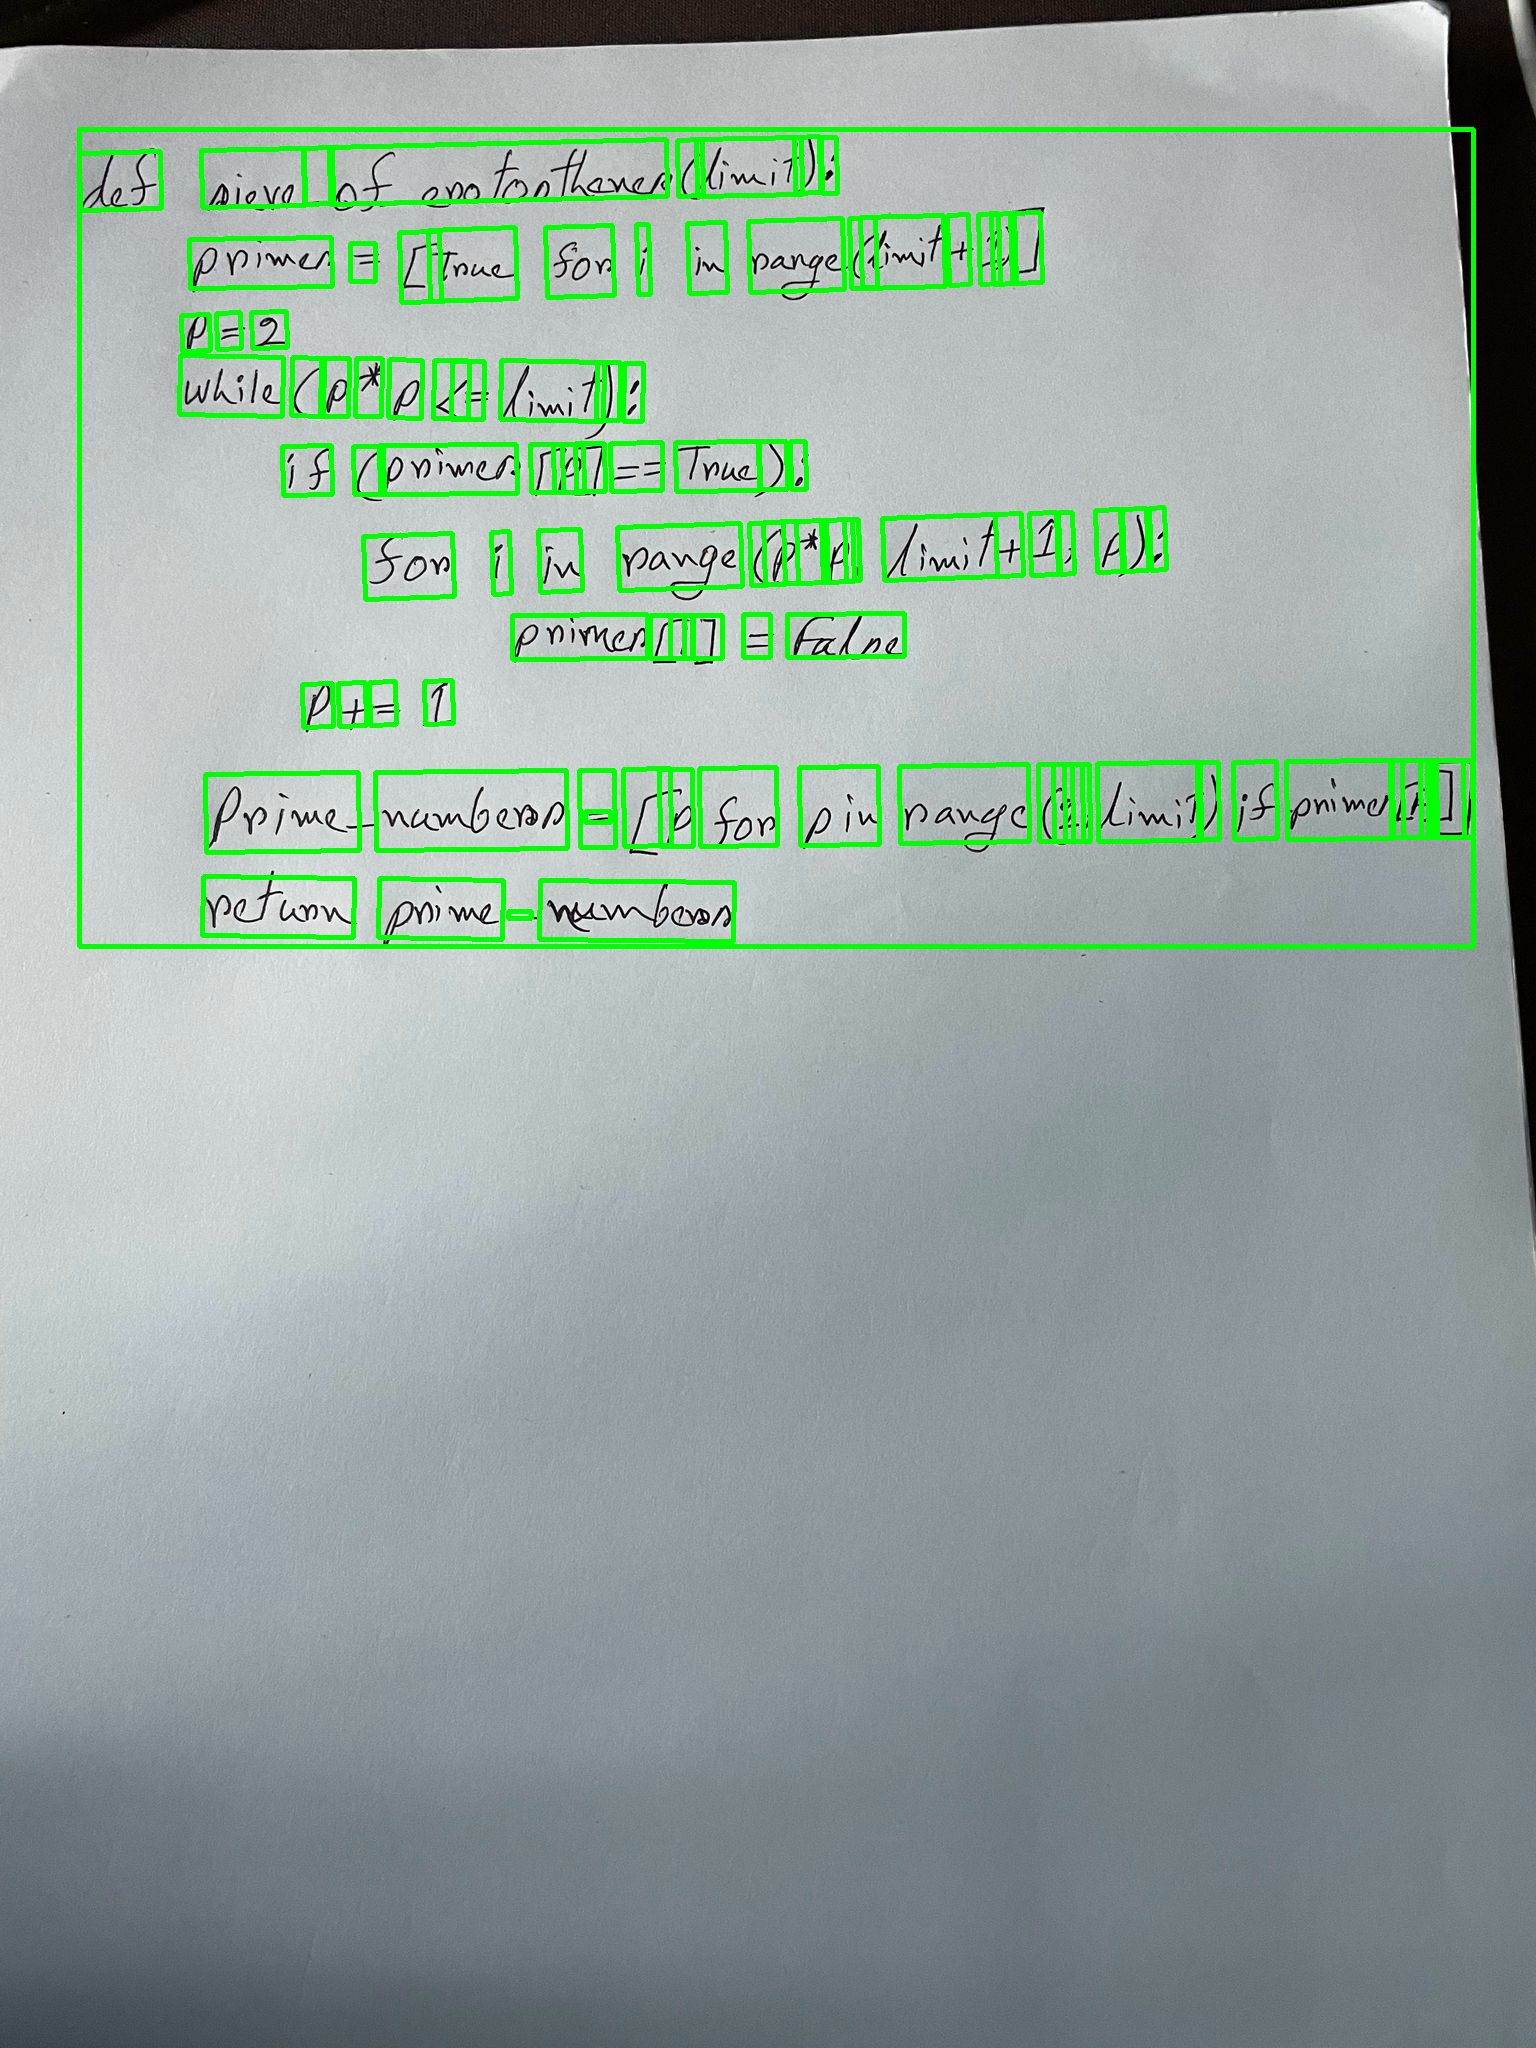
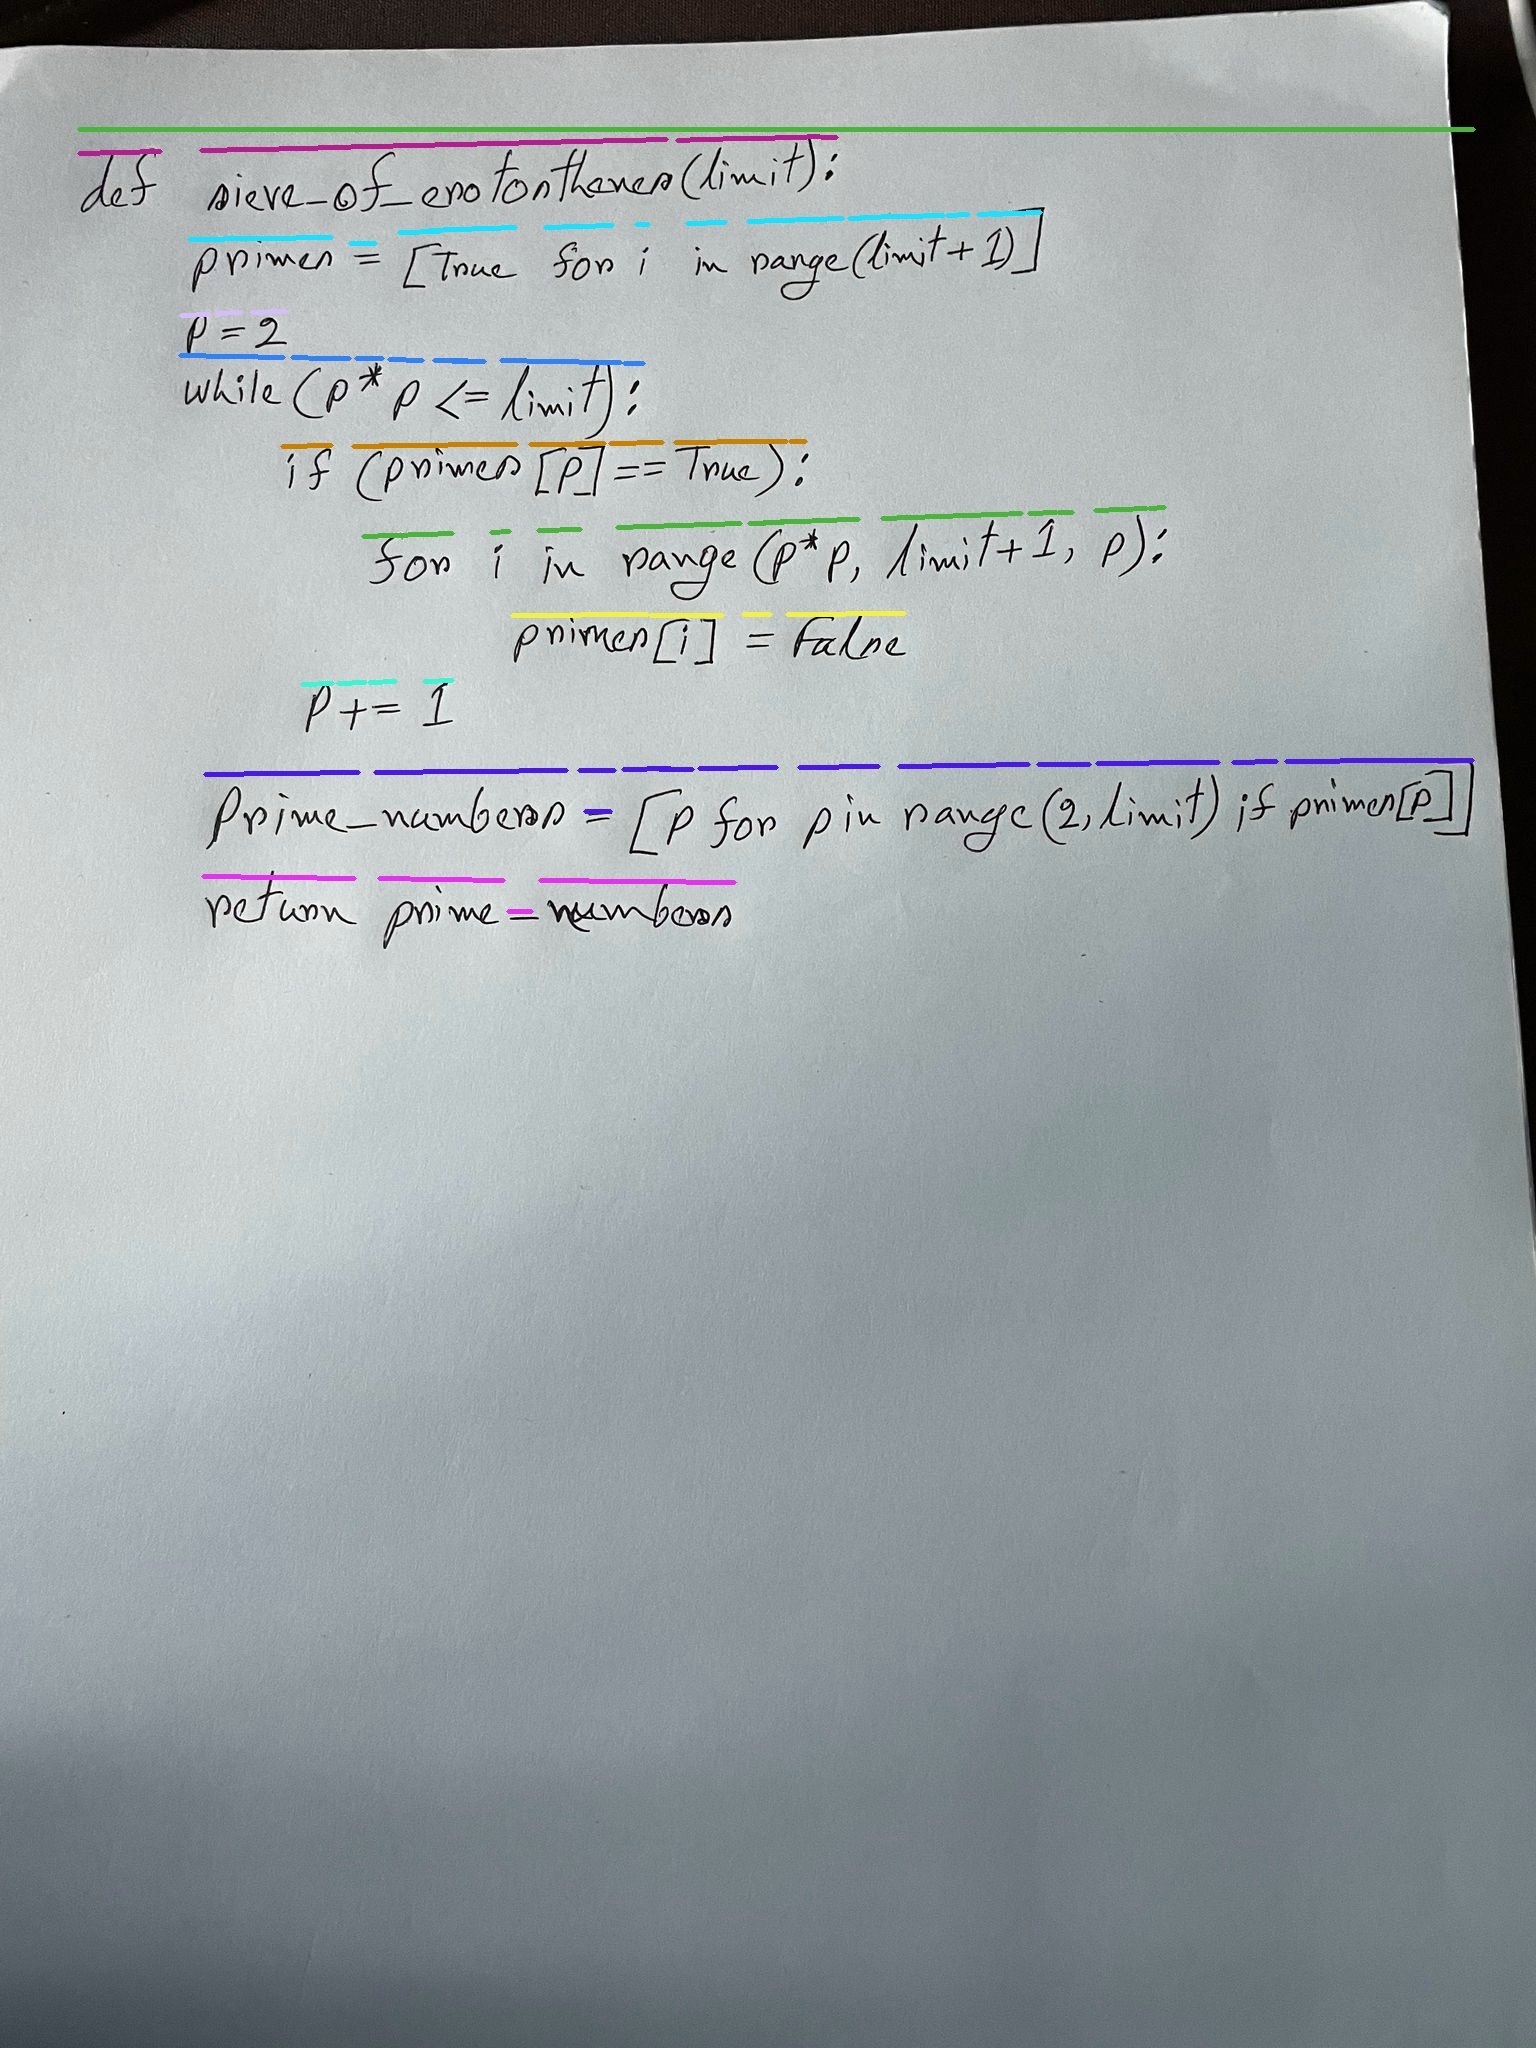
Line Detection

Changed region(s): [[0.0312, 0.0625, 0.9688, 0.4688]]

diff --git a/kmeans.py b/kmeans.py
@@ -1,0 +1,60 @@
+import json
+from sklearn.cluster import KMeans
+import numpy as np
+import matplotlib.pyplot as plt
+
+# Load the data
+with open('response.json') as f:
+    data = json.load(f)
+
+x_values = []
+y_values = []
+
+# Extract x and y coordinates
+for annotation in data['responses'][0]['textAnnotations']:
+    vertices = annotation['boundingPoly']['vertices']
+    for vertex in vertices:
+        x_values.append(vertex['x'])
+        y_values.append((vertices[0]['y'] + vertices[2]['y']) / 2)  # Taking average of y-coordinates of first and third vertex
+
+# Reshape data for scikit-learn
+x_values = np.array(x_values).reshape(-1, 1)
+y_values = np.array(y_values).reshape(-1, 1)
+
+# Number of clusters
+k = 5
+
+# Create and fit a KMeans model for x coordinates
+kmeans_x = KMeans(n_clusters=5, random_state=0).fit(x_values)
+# Get the cluster centers for x coordinates
+x_cluster_centers = kmeans_x.cluster_centers_
+# Get the labels for each point for x coordinates
+x_labels = kmeans_x.labels_
+
+# Create and fit a KMeans model for y coordinates
+kmeans_y = KMeans(n_clusters=10, random_state=0).fit(y_values)
+# Get the cluster centers for y coordinates
+y_cluster_centers = kmeans_y.cluster_centers_
+# Get the labels for each point for y coordinates
+y_labels = kmeans_y.labels_
+
+print(f"X Cluster centers: \n {x_cluster_centers}")
+print(f"X Labels: \n {x_labels}")
+
+print(f"Y Cluster centers: \n {y_cluster_centers}")
+print(f"Y Labels: \n {y_labels}")
+
+# Plot the x coordinates
+plt.figure(figsize=(12, 6))
+plt.subplot(121)
+plt.scatter(x_values, np.zeros_like(x_values), c=x_labels)
+plt.scatter(x_cluster_centers, np.zeros_like(x_cluster_centers), c='red', marker='x')  # Plot the centers
+plt.title('K-Means Clustering of x coordinates')
+
+# Plot the y coordinates
+plt.subplot(122)
+plt.scatter(y_values, np.zeros_like(y_values), c=y_labels)
+plt.scatter(y_cluster_centers, np.zeros_like(y_cluster_centers), c='red', marker='x')  # Plot the centers
+plt.title('K-Means Clustering of y coordinates')
+
+plt.show()

diff --git a/visualize.py b/visualize.py
@@ -3,10 +3,39 @@ import json
 import requests
 import numpy as np
 import matplotlib.pyplot as plt
+from code_ocr_utils import detect_lines
+
+
+LINE_COLORS = [
+  (230, 25, 75),
+  (60, 180, 75),
+  (255, 225, 25),
+  (0, 130, 200),
+  (245, 130, 48),
+  (145, 30, 180), 
+  (70, 240, 240), 
+  (240, 50, 230), 
+  (210, 245, 60), 
+  (250, 190, 212), 
+  (0, 128, 128), 
+  (220, 190, 255), 
+  (170, 110, 40), 
+  (255, 250, 200), 
+  (128, 0, 0), 
+  (170, 255, 195), 
+  (128, 128, 0), 
+  (255, 215, 180), 
+  (0, 0, 128), 
+  (128, 128, 128), 
+  (255, 255, 255), 
+  (0, 0, 0)
+]
 
 # Load the response from the JSON file
 with open("response.json", "r") as f:
     response = json.load(f)
+
+response = detect_lines(response)
 
 # Load the image
 image_url = "https://firebasestorage.googleapis.com/v0/b/code-transcriber.appspot.com/o/misc%2Ftest4.jpg?alt=media&token=26480a5f-8b7e-43b7-81de-b6fffafac426"
@@ -17,14 +46,17 @@ image = cv2.cvtColor(image, cv2.COLOR_BGR2RGB)
 # Draw bounding boxes around entire lines
 # Loop through each text annotation
 for annotation in response['responses'][0]['textAnnotations']:
+
   vertices = annotation['boundingPoly']['vertices']
+  line_id = annotation['line_id']
+  line_color = LINE_COLORS[line_id % len(LINE_COLORS)] 
+
 
   # Create an array of points for the bounding box
-  pts = np.array([[vertex['x'], vertex['y']] for vertex in vertices], np.int32)
+  pts = np.array([[vertex['x'], vertex['y']] for vertex in vertices[0:2]], np.int32)
   pts = pts.reshape((-1,1,2))
-
   # Draw the bounding box on the image
-  cv2.polylines(image, [pts], True, (0,255,0), 3)
+  cv2.polylines(image, [pts], True, line_color, 3)
 
 # Save the image with bounding boxes
 cv2.imwrite('image_with_boxes.jpg', image)

diff --git a/code_ocr_utils.py b/code_ocr_utils.py
@@ -1,0 +1,39 @@
+from sklearn.cluster import MeanShift
+import numpy as np
+import json
+
+import matplotlib.pyplot as plt
+
+def detect_lines(response):
+    x_values = []
+    y_values = []
+
+    # Loop through each text annotation
+    for annotation in response['responses'][0]['textAnnotations']:
+      vertices = annotation['boundingPoly']['vertices']
+      
+      # Loop through each vertex
+      for vertex in vertices:
+        x_values.append(vertex['x'])
+      y_values.append((vertices[0]['y'] + vertices[3]['y']) / 2)  # Taking average of y-coordinates of first and third vertex
+
+
+
+    # Convert y_values to numpy array and reshape for sklearn
+    y_values_np = np.array(y_values).reshape(-1, 1)
+
+    # Define the Mean Shift model
+    mean_shift = MeanShift(bandwidth=10)  # Bandwidth is a parameter of the Mean shift algorithm, you may need to adjust this based on your data
+
+    # Fit the model
+    mean_shift.fit(y_values_np)
+
+    # Get cluster centers
+    cluster_centers = mean_shift.cluster_centers_
+
+    # Get labels for each point
+    labels = mean_shift.labels_
+    for ix, line_id in enumerate(labels):
+       response['responses'][0]['textAnnotations'][ix]['line_id'] = line_id
+
+    return response 

diff --git a/ycluster.py b/ycluster.py
@@ -1,0 +1,47 @@
+from sklearn.cluster import MeanShift
+import numpy as np
+import json
+
+import matplotlib.pyplot as plt
+
+
+with open('response.json') as f:
+  data = json.load(f)
+
+x_values = []
+y_values = []
+
+# Loop through each text annotation
+for annotation in data['responses'][0]['textAnnotations']:
+  vertices = annotation['boundingPoly']['vertices']
+  
+  # Loop through each vertex
+  for vertex in vertices:
+    x_values.append(vertex['x'])
+  y_values.append((vertices[0]['y'] + vertices[3]['y']) / 2)  # Taking average of y-coordinates of first and third vertex
+
+
+
+# Convert y_values to numpy array and reshape for sklearn
+y_values_np = np.array(y_values).reshape(-1, 1)
+
+# Define the Mean Shift model
+mean_shift = MeanShift(bandwidth=5)  # Bandwidth is a parameter of the Mean shift algorithm, you may need to adjust this based on your data
+
+# Fit the model
+mean_shift.fit(y_values_np)
+
+# Get cluster centers
+cluster_centers = mean_shift.cluster_centers_
+
+# Get labels for each point
+labels = mean_shift.labels_
+
+# Print cluster centers
+print("Cluster centers: \n", cluster_centers)
+
+print("\n")
+
+# Print labels
+print("Labels: \n", labels)
+
